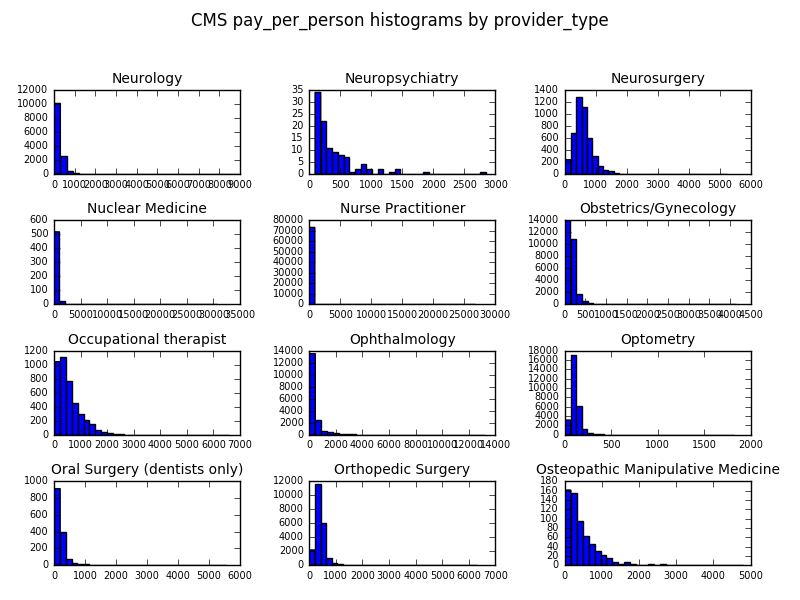
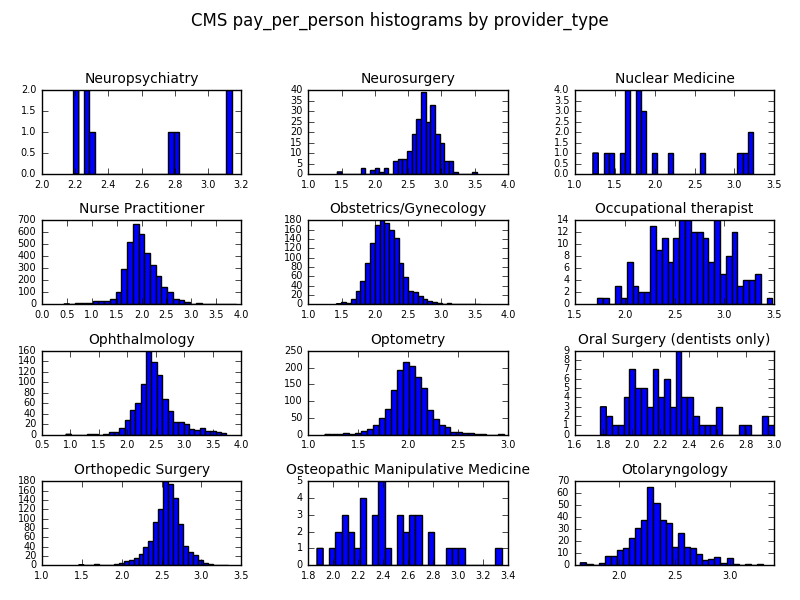
add provider_gender plots

Changed region(s): [[0.3438, 0.12, 0.9688, 0.99], [0.0, 0.12, 0.3125, 0.96]]

diff --git a/cms_explore.py b/cms_explore.py
@@ -1,9 +1,11 @@
 # explore center for medicare services (CMS) data
 
+import os, sys
+
 import numpy as np
 import pandas as pd
-import os
 import matplotlib.pyplot as plt
+import seaborn as sns
 
 # to do:
 #    hist plots of each provider_type for key variables (normal dist?)
@@ -17,11 +19,11 @@ import matplotlib.pyplot as plt
 #	group beneficiaries by disease percent
 #	group_by provider_state, provider_gender
 
-def make_plotdir():
+def make_plotdir(plotdir='cms_hist_plots/'):
     "make plot directory on file system"
-    plotdir = 'cms_hist_plots/'
     if not os.access(plotdir, os.F_OK):
         os.mkdir(plotdir)
+    sns.set_style("darkgrid")
     return plotdir
 
 def read_first_data(fname, size=10):
@@ -109,34 +111,59 @@ def make_hist_plot(df, column_names):
     plt.tick_params(labelbottom='off', labelleft='off')
     plt.savefig(plotdir + 'hist.png')
 
-def make_hist_plots(df, column_name, group_var):
+def make_hist_plots(df, column_name, group_var, plotdir=make_plotdir(), split_var=None):
     "make histogram plot of data frame subsets by group variable"
-    plotdir = make_plotdir()
+#   plotdir = make_plotdir()
     col_name = column_name     # for now
     providers = sorted(list(set(df[group_var])))
     print('plotting histograms')
     gx = getn(providers, 12)
-    for i, g in enumerate(gx):
-#       print('group%s' % (i+1), g)
+    for k, v in enumerate(gx):
         print('.', end='', flush=True)
-        plot_hists(df, g, 'group%s' % (i+1), col_name, group_var, plotdir)
+        plot_hists(df, v, 'group%s' % (k+1), col_name, group_var, plotdir, split_var=split_var)
     print(' done plotting histograms')
+# e.g. make_hist_plots(df, 'pay_per_service', 'provider_type')
 
-def plot_hists(df, vlist, label, col_name, group_var, plotdir, ncols=3):
+def plot_hists(df, vlist, label, col_name, group_var, plotdir, ncols=3, split_var=None):
     plt.clf()
-    fig = plt.figure()  # new
+    fig = plt.figure(figsize=(10,8))
+    if split_var:    # e.g. nppes_provider_gender
+        splits = sorted(list(set(df[split_var])))
+        splits.reverse()
+#       print('splits', splits)
+        colors = ['green','blue','red']   # need alpha transparency
+# reverse colors, plot F last, may show on top of M?  count(M) > count(F)
+        aligns = ['left','right','mid']  # not always correct?  need more pixels?
     nrows = len(vlist) // ncols
     if len(vlist) % ncols > 0:
         nrows += 1
-    for i, var in enumerate(vlist):
-        ax = fig.add_subplot(nrows, ncols, i+1)
-        ax.hist(df[df[group_var]==var][col_name], bins=30)
-        ax.set_title(var, fontsize=10)
+    for k, val in enumerate(vlist):
+        ax = fig.add_subplot(nrows, ncols, k+1)
+        if split_var:
+#            for j,s in enumerate(splits):
+##               ax.hist(df[(df[group_var]==val) & (df[split_var]==s)][col_name], bins=30, color=colors[j], alpha=0.4)
+#                ax.hist(df[(df[group_var]==val) & (df[split_var]==s)][col_name], bins=20, rwidth=0.5, align=aligns[j])  # use seaborn colors
+            hdata = []
+            for s in splits:
+                hpart = df[(df[group_var]==val) & (df[split_var]==s)][col_name]
+#               print(s, hpart.size, sep=' ', end='')
+#               if hpart.size > 0:
+#                   hdata.append(np.array(hpart))
+                hdata.append(df[(df[group_var]==val) & (df[split_var]==s)][col_name])
+            ax.hist(hdata, bins=20)
+#           print('', flush=True)
+        else:
+            ax.hist(df[df[group_var]==val][col_name], bins=30)
+        ax.set_title(val, fontsize=10)
         ax.tick_params(labelbottom='on', labelleft='on', labelsize=7)
     plt.tight_layout()
-    plt.subplots_adjust(top=0.85)
-    plt.suptitle('CMS %s histograms by %s' % (col_name, group_var), fontsize=12)
-    plt.savefig('%shist_%s_%s.png' % (plotdir, col_name, label))
+    plt.subplots_adjust(top=0.88)
+    if split_var:
+        plt.suptitle('CMS %s histograms by %s and %s' % (col_name, group_var, split_var[-6:]), fontsize=12)
+        plt.savefig('%shist_%s_%s_%s.png' % (plotdir, split_var[-6:], col_name, label))
+    else:
+        plt.suptitle('CMS %s histograms by %s' % (col_name, group_var), fontsize=12)
+        plt.savefig('%shist_%s_%s.png' % (plotdir, col_name, label))
 
 def read_select_data(new_cols, fname, first=False):
     "read new_cols from csv file fname and groupby provider_type"
@@ -157,26 +184,34 @@ def read_select_data(new_cols, fname, first=False):
     print("df columns isnull sum\n%s" % df.isnull().sum())
 #   nppes_provider_gender  61330, others 0
     print("df columns iszero sum\n%s" % (df==0).sum())
-#   total_medicare_payment_amt 3, others 0
-    print("df gender set %s" % list(set(df['nppes_provider_gender'])))
-#       [nan, 'M', 'F']
-
+#   total_medicare_payment_amt 3, others 0,remove zeroes
     df = df[df.total_medicare_payment_amt != 0]
 
-# calc new columns
-    df['pay_per_service'] = df['total_medicare_payment_amt'] / df['total_services']
-    df['pay_per_person'] = df['total_medicare_payment_amt'] / df['total_unique_benes']
+#   convert gender nan to 'nan'
+    df['nppes_provider_gender'] = df['nppes_provider_gender'].apply(lambda s: str(s))
+    genders = sorted(list(set(df['nppes_provider_gender'])))
+    print("df gender set %s" % genders)
+#   print("df gender count %s" % df.groupby('nppes_provider_gender').count())
+#       ['F', 'M' 'nan'] count (18721, 28116, 3162) in 1st 50000
+
+# calc new columns, log of quotient = log($) - log(population)
+    df['pay_per_service'] = np.log10(df['total_medicare_payment_amt'] / df['total_services'])
+    df['pay_per_person'] = np.log10(df['total_medicare_payment_amt'] / df['total_unique_benes'])
 #   df['overcharge_ratio'] = df['total_submitted_chrg_amt'] / df['total_medicare_payment_amt']
     print("df %s shape, filename %s" % (df.shape, fname))
 #   shape (986674, 11)
 
     provider_group = df.groupby('provider_type').median()
 #   provider_group = df.groupby('provider_type').agg(['count','mean','std','median','mad'])
-#   provider_gender_group = df.groupby(['provider_type','nppes_provider_gender']).mean()
+    provider_gender_group = df.groupby(['provider_type','nppes_provider_gender']).count()
+    print_all_rows(provider_gender_group, ['pay_per_person'])
+# a count of provider_type, gender - very few F in many specialties
 
 # hist plots very varied, log scale may not help
-    make_hist_plots(df, 'pay_per_service', 'provider_type')
-    make_hist_plots(df, 'pay_per_person', 'provider_type')
+#   make_hist_plots(df, 'pay_per_service', 'provider_type')
+#   make_hist_plots(df, 'pay_per_person', 'provider_type')
+    make_hist_plots(df, 'pay_per_person', 'provider_type', plotdir=make_plotdir('cms_hist_gender_plots/'), split_var='nppes_provider_gender')
+# one obvious thing from plot it seems many provider_types have only one gender
 
     return provider_group
 
@@ -199,11 +234,14 @@ def main():
 #   explore_initial_data(fname, new_cols)
 
 # group and filter data by provider_type mean
-    provider_group = read_select_data(new_cols, fname)
-#   provider_group = read_select_data(new_cols, fname, first=True)  # 1st block
-    filter_group_by_var(provider_group, var='pay_per_service')
-    filter_group_by_var(provider_group, var='pay_per_person')
+    if len(sys.argv) > 1 and (sys.argv[1][0]=='t' or sys.argv[1][0]=='1'):
+        provider_group = read_select_data(new_cols, fname, first=True)  # 1st block
+    else:
+        provider_group = read_select_data(new_cols, fname)
+#   filter_group_by_var(provider_group, var='pay_per_service')
+#   filter_group_by_var(provider_group, var='pay_per_person')
 
 if __name__ == '__main__':
     main()
+
 
